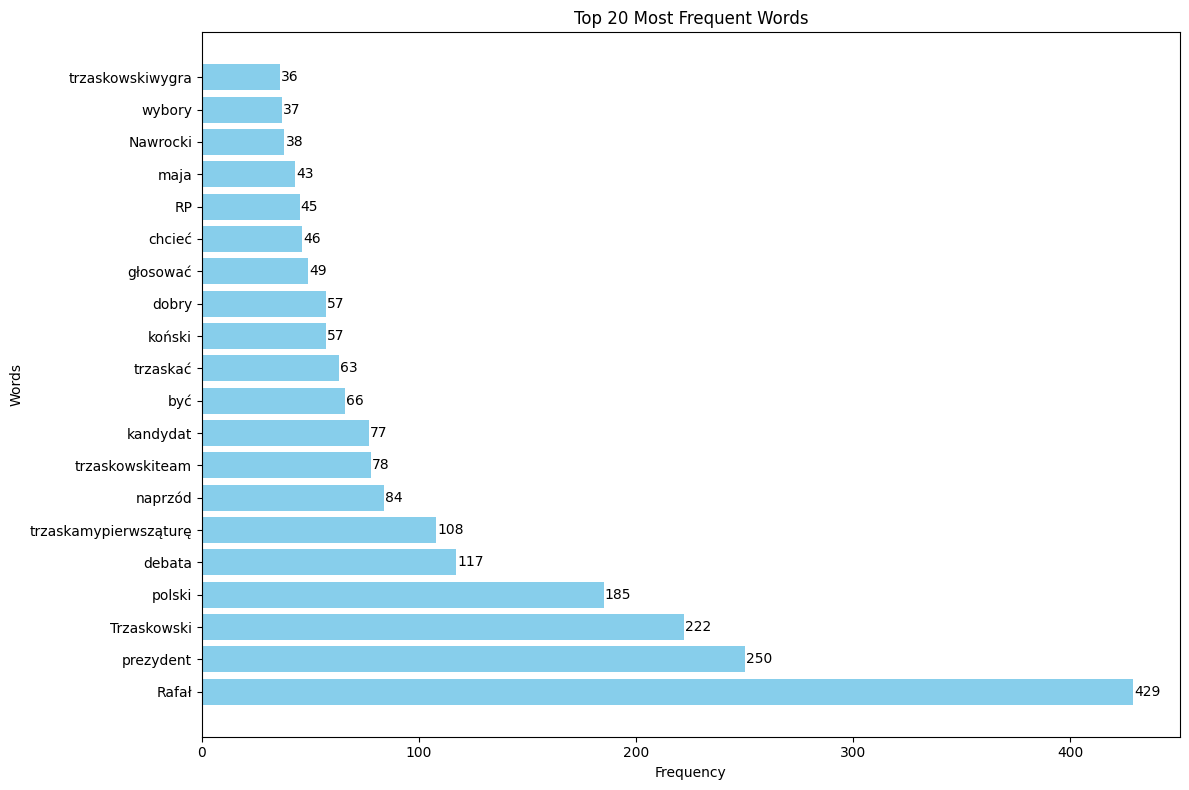
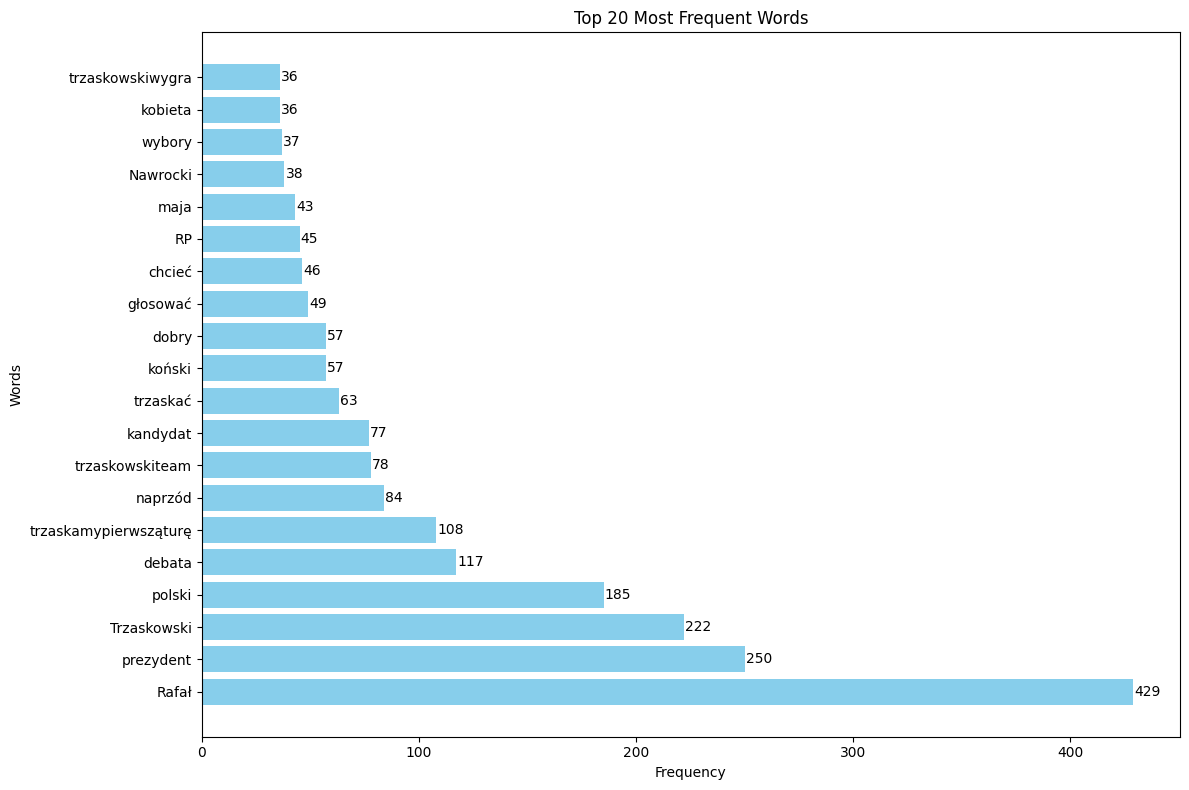
fix excluding stop words, generate plots for debata, nask and obietnica

diff --git a/analizing_content/preprocessing.py b/analizing_content/preprocessing.py
@@ -33,15 +33,25 @@ def preprocess_tweets(tweets):
   stop_words = load_stop_words()
   morf = morfeusz2.Morfeusz()
 
+
   for tweet in tweets:
     tweet = clean_tweet(tweet)
     tokens = word_tokenize(tweet.lower())
 
-    tokens = [morf.analyse(word)[0][2][1] for word in tokens if word.isalpha() and word not in stop_words]
-    cleaned_tweets.extend(tokens)
+    lemmatized_tokens=[]
+    for word in tokens:
+      if word.isalpha():
+        lemma = morf.analyse(word)[0][2][1]
 
-  removed_tags_tokens = remove_morf_tags(cleaned_tweets)
-  return removed_tags_tokens
+        if ":" in lemma:
+          lemma = lemma.split(":")[0]
+        if lemma not in stop_words:
+          lemmatized_tokens.append(lemma)
+
+    cleaned_tweets.extend(lemmatized_tokens)
+
+  # removed_tags_tokens = remove_morf_tags(cleaned_tweets)
+  return cleaned_tweets
 
 
 def get_word_frequency(tokens):
@@ -67,8 +77,8 @@ def remove_morf_tags(tokens):
 #   ]
 
 #   result = preprocess_tweets(tweets)
-#   clean_result = remove_morf_tags(result)
-#   print(clean_result)
+#   # clean_result = remove_morf_tags(result)
+#   print(result)
 
 
 

diff --git a/analizing_content/analyse.py b/analizing_content/analyse.py
@@ -91,8 +91,8 @@ def analyze_tweet_content(file_paths, wordcloud_output=None, frequency_chart_out
 
 def main():
   file_paths = [
-    '../momenty_trzaskowski/debata/latest_po.csv',
-    '../momenty_trzaskowski/debata/top_po.csv',
+    '../momenty_trzaskowski/obietnica/latest_po.csv',
+    '../momenty_trzaskowski/obietnica/top_po.csv',
   ]
 
   words, wc, freq_chart = analyze_tweet_content(
